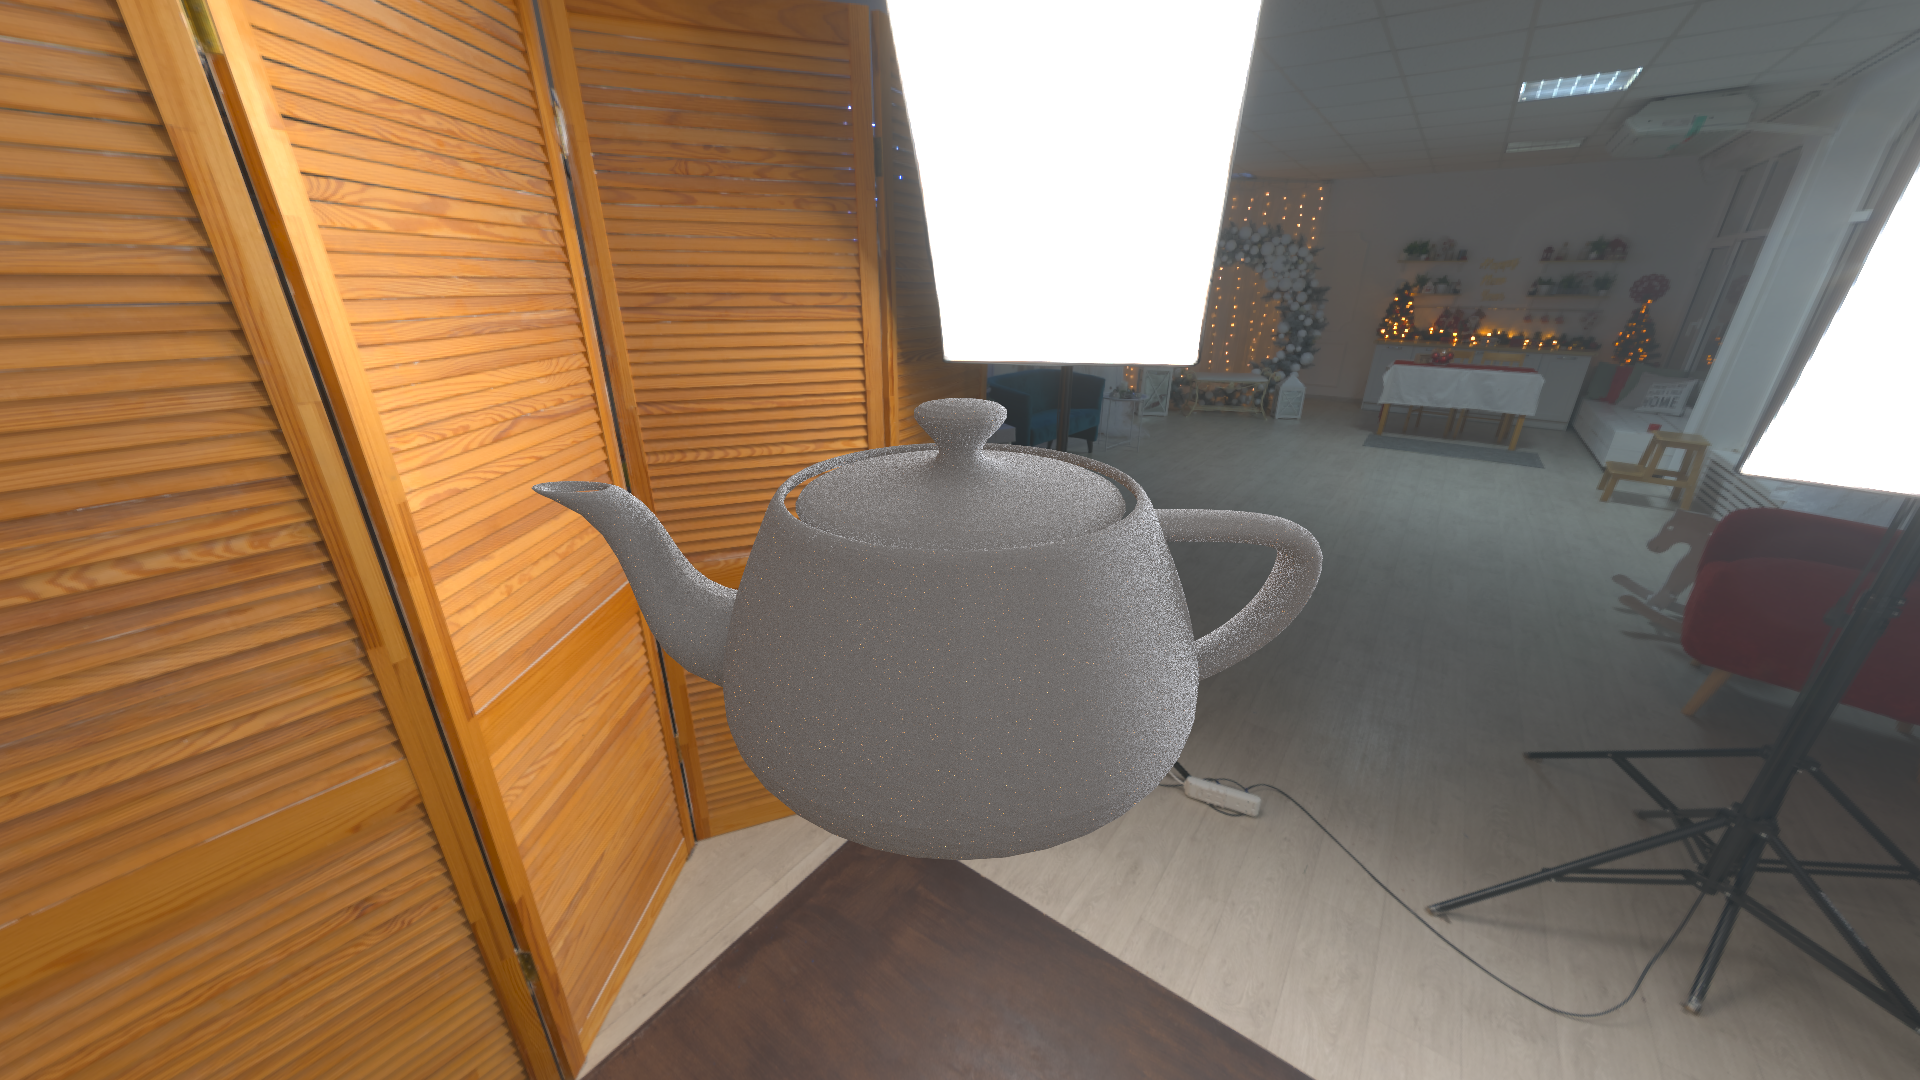
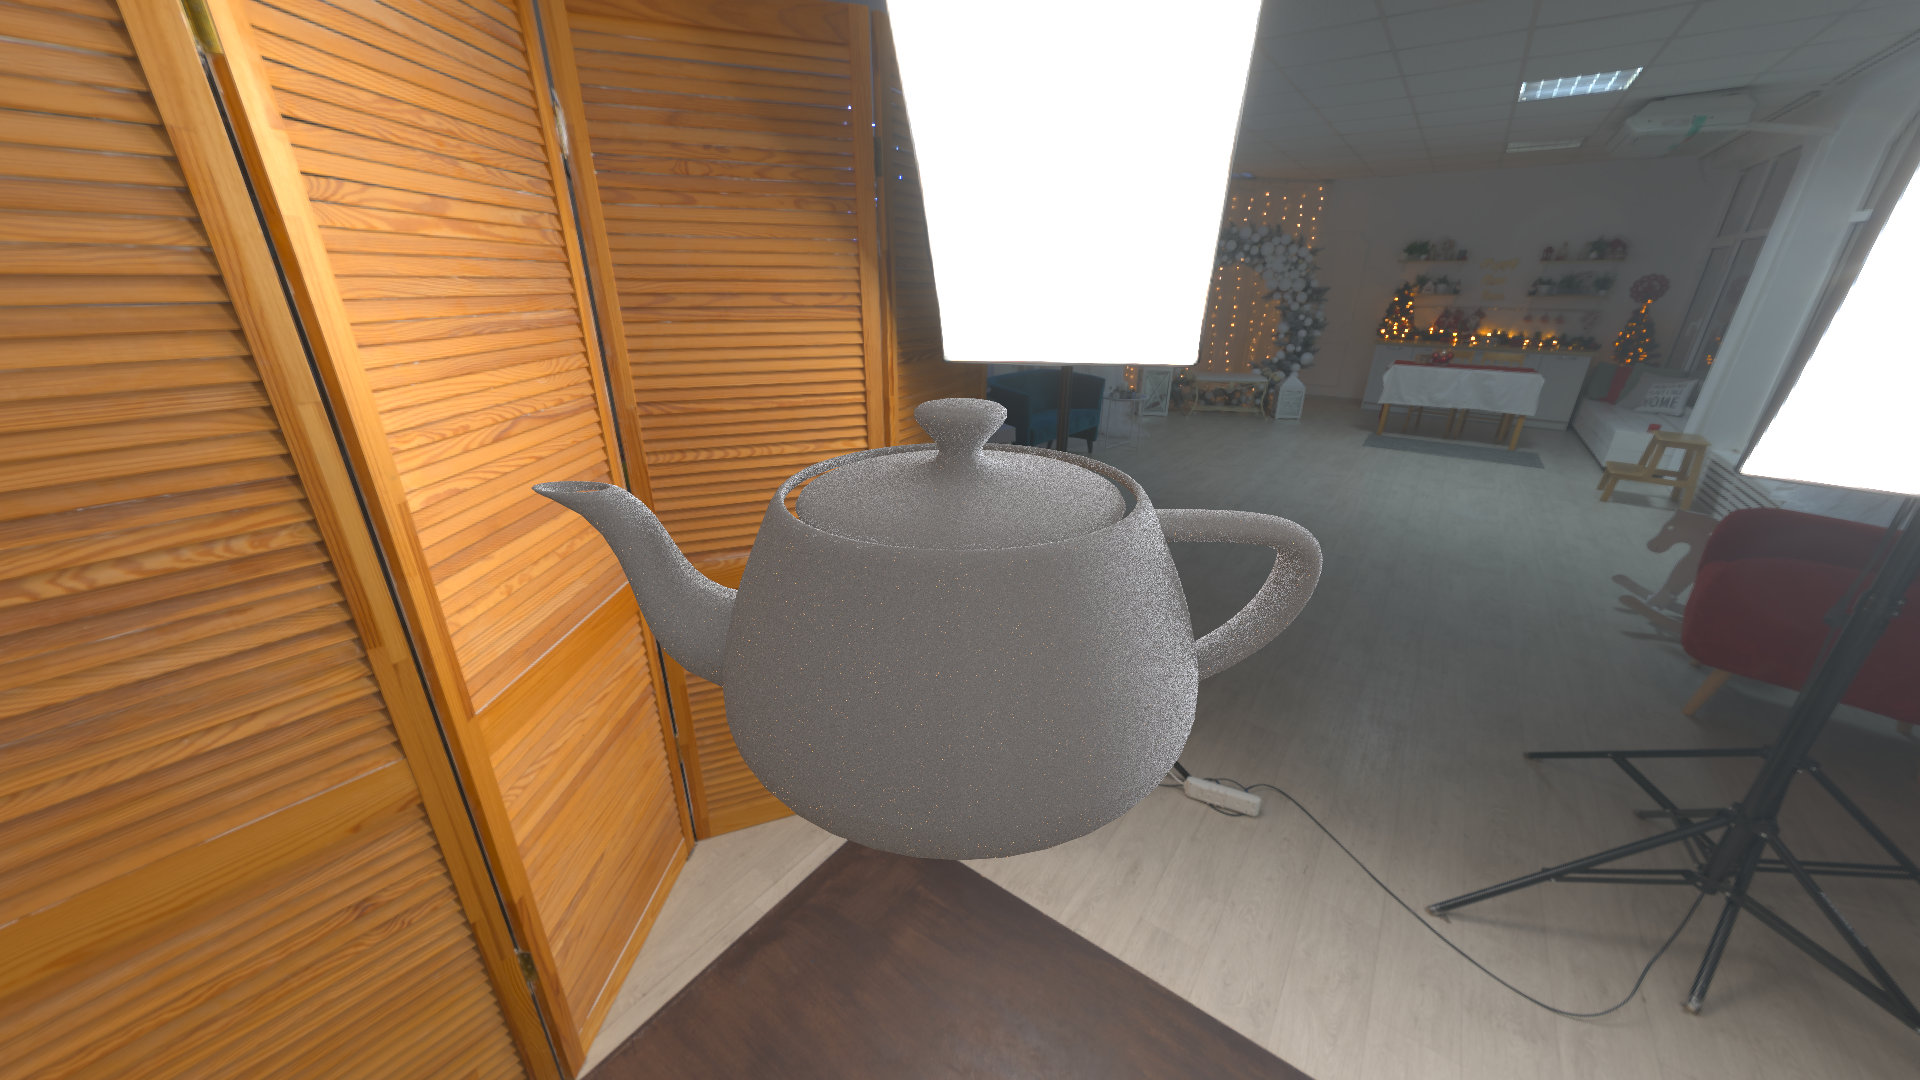
Fixed normal order

diff --git a/src/bvh/mod.rs b/src/bvh/mod.rs
@@ -63,8 +63,8 @@ pub fn triangles_from_bufread<T: BufRead>(buffer: T) -> Result<Vec<Triangle>, Er
                 v2,
                 v1,
                 v0,
-                n0,
                 n1,
+                n0,
                 n2,
                 Vector3::from_single(1.0),
                 Vector3::zero(),
@@ -92,7 +92,7 @@ fn _generate_bvh(
         //Return single triangle
         let triangle = triangles[0].clone();
         let mut aabb = triangle.bounds();
-        let margin: Vector3 = Vector3::from_single(0.0001); //Add a small margin around the triangle
+        let margin: Vector3 = aabb.max.subtract(aabb.min).multiply(1.0/100.0); //Add a small margin around the triangle
         aabb.min = aabb.min.subtract(margin);
         aabb.max = aabb.max.add(margin);
         let inner = TriangleResolver { triangle };

diff --git a/src/main.rs b/src/main.rs
@@ -99,7 +99,7 @@ fn main() {
             let renderer = path_tracer::PathTracer {
                 resolver,
                 bounces: 5,
-                samples: 500,
+                samples: 100,
                 epsilon: 0.0002f32,
                 contrast: 1f32 / 5f32,
                 brightness: -0.5,
